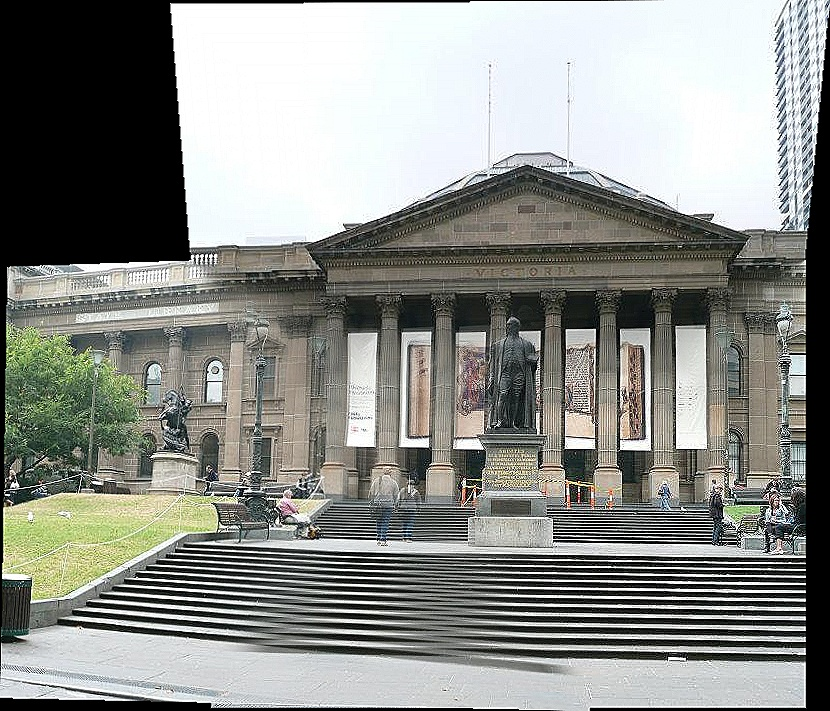
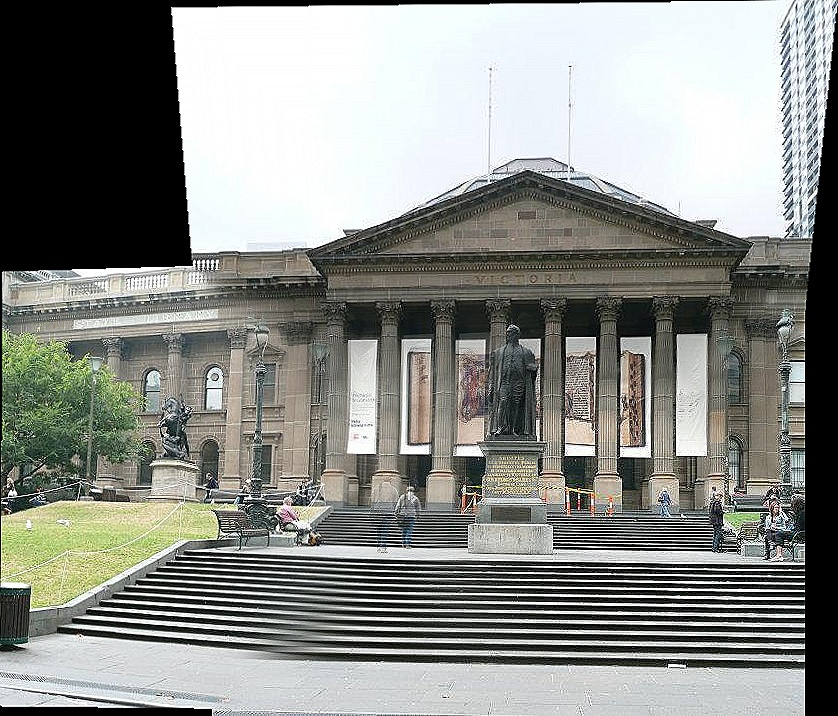
Cylindrical images loaded and Readme updated

diff --git a/main.py b/main.py
@@ -24,6 +24,7 @@ def main():
 
     for i, img in enumerate(images):
         cyl = cylindrical_projection(img)
+        save_image(f"outputs/cylindrical_{i}.jpg", cyl)
         show_image(f"Cylindrical Image {i}", cyl)
 
     print("\nBuilding panorama using pipeline...")

diff --git a/README.md b/README.md
@@ -1,8 +1,8 @@
-# 🖼 Image Stitching using SIFT
+# 🖼 Advanced Image Stitching using SIFT
 
 ![Python](https://img.shields.io/badge/Python-3.x-blue?logo=python)
 ![OpenCV](https://img.shields.io/badge/OpenCV-Computer%20Vision-green?logo=opencv)
-![Status](https://img.shields.io/badge/Status-In%20Progress-yellow)
+![Status](https://img.shields.io/badge/Status-Completed-brightgreen)
 ![License](https://img.shields.io/badge/License-MIT-lightgrey)
 ![Contributions](https://img.shields.io/badge/Contributions-Welcome-brightgreen)
 
@@ -10,20 +10,24 @@
 
 ## 📌 Overview
 
-This project implements a **multi-image panorama stitching system** using concepts from the **SIFT (Scale-Invariant Feature Transform)** paper.
+This project implements a **complete multi-image panorama stitching system** based on concepts from the **SIFT (Scale-Invariant Feature Transform)** paper.
 
-The pipeline detects keypoints, matches them across images, estimates geometric transformations using **RANSAC**, and stitches images into a seamless panorama.
+It detects keypoints, matches features across multiple images, estimates transformations using **RANSAC**, aligns images into a common coordinate space, and produces a **clean, blended panoramic output**.
 
 ---
 
 ## 🚀 Features
 
-* 🔍 SIFT-based feature detection
-* 🔗 Feature matching using KNN + ratio test
-* 📐 Robust homography estimation using RANSAC
-* 🖼 Image warping and stitching
-* 🎨 Basic blending for smoother output
-* 📊 Visualization of keypoints and matches
+* 🔍 SIFT-based feature detection with preprocessing
+* 🔗 Feature matching using KNN + Lowe’s ratio test
+* 📐 Robust homography estimation using RANSAC + refinement
+* 🌍 Multi-image stitching (3+ images supported)
+* 🔄 Global homography chaining (reference frame alignment)
+* 🌐 Cylindrical projection for distortion reduction
+* 🎨 Advanced blending (feather blending / weighted blending)
+* ✂ Automatic black border cropping
+* ✨ Optional sharpening for final output
+* 📊 Visualization of keypoints, matches, and inliers
 
 ---
 
@@ -33,18 +37,26 @@ The pipeline detects keypoints, matches them across images, estimates geometric 
 image_stitching/
 │
 ├── modules/
-│   ├── feature.py        # Feature extraction (SIFT)
-│   ├── matcher.py        # Feature matching
-│   ├── homography.py     # Homography + RANSAC
-│   └── stitcher.py       # Warping + blending
+│ ├── feature.py # Feature extraction (SIFT + preprocessing)
+│ ├── matcher.py # Feature matching (KNN + filtering)
+│ ├── homography.py # Homography + RANSAC
+│ ├── transform.py # Homography chaining & normalization
+│ ├── projection.py # Cylindrical projection
+│ ├── pipeline.py # Full stitching pipeline
+│ ├── postprocess.py # Cropping & sharpening
+│ └── stitch.py # (legacy / optional stitching logic)
 │
 ├── tests/
-│   └── test_homography.py
+│ ├── test_homography.py
+│ └── test_matcher.py
 │
-├── main.py
+├── images/ # Input images
+├── outputs/ # Generated results
+├── main.py # Entry point
 ├── requirements.txt
 ├── .gitignore
 └── README.md
+
 ```
 
 ---
@@ -53,43 +65,42 @@ image_stitching/
 
 ### 1. Clone the repository
 
-```
-git clone <your-repo-link>
-cd image_stitching
+``` 
+git clone https://github.com/Vaishnav-365/Image-Stitching.git
+cd Image-Stitching
+
 ```
 
 ### 2. Create virtual environment
 
 ```
 python -m venv venv
-```
 
+```
 ### 3. Activate environment
 
 ```
-venv\Scripts\activate   # Windows
+venv\Scripts\activate # Windows
+source venv/bin/activate # Linux/Mac
+
 ```
 
 ### 4. Install dependencies
 
 ```
 pip install -r requirements.txt
+
 ```
 
 ---
 
 ## ▶ Running the Project
 
-### Run tests
-
-```
-python -m tests.test_homography
-```
-
 ### Run main pipeline
 
 ```
 python -m main
+
 ```
 
 ---
@@ -97,61 +108,88 @@ python -m main
 ## 🧠 Pipeline
 
 ```
-Images → SIFT → Feature Matching → Ratio Test
-        → RANSAC → Homography → Warping
-        → Blending → Panorama
+Images
+→ Preprocessing (Grayscale + Histogram Equalization)
+→ SIFT Feature Detection
+→ Feature Matching (KNN + Ratio Test)
+→ RANSAC Homography Estimation
+→ Inlier Refinement
+→ Global Homography Alignment
+→ Cylindrical Projection
+→ Image Warping
+→ Blending (Feather / Weighted)
+→ Cropping & Sharpening
+→ Final Panorama
+
 ```
 
 ---
 
 ## 👥 Team Responsibilities
 
-* **Person A** → Feature Extraction (SIFT)
-* **Person B** → Feature Matching
-* **Person C** → Homography & RANSAC
-* **Person D** → Warping & Blending
+* **Person A** → Feature Extraction (SIFT + preprocessing)
+* **Person B** → Feature Matching (robust matching + filtering)
+* **Person C** → Pipeline, Homography, Multi-image alignment, Projection, Blending, Post-processing
+* **Person D** → (Optional) Advanced blending, UI, optimization
 
 ---
 
 ## 📅 Timeline
 
-| Phase     | Work                             |
-| --------- | -------------------------------- |
-| Days 1–4  | Feature detection & matching     |
-| Days 5–8  | Homography & warping             |
-| Days 9–12 | Blending & multi-image stitching |
+| Phase     | Work                                      |
+|----------|-------------------------------------------|
+| Days 1–4  | Feature detection & matching              |
+| Days 5–8  | Homography, validation & multi-image setup|
+| Days 9–10 | Blending improvements & robustness        |
+| Day 11    | Cylindrical projection                   |
+| Day 12    | Cropping, sharpening & final polish       |
 
 ---
 
-## 📸 Expected Output
+## 📸 Output
 
-* Panorama generated from **2–5 overlapping images**
-* Visualization of:
+The system generates:
 
-  * Keypoints
+* 🖼 Seamless panorama from **multiple overlapping images**
+* 📊 Visualizations:
+  * Keypoints detected
   * Feature matches
-  * Inliers after RANSAC
+  * RANSAC inliers
+* 📁 Saved outputs:
+  * Final panorama
+  * Intermediate debug images
+
+---
+
+## ⚠ Known Limitations
+
+* Minor ghosting may occur due to parallax
+* Assumes moderate overlap between images
+* Works best with consistent lighting conditions
 
 ---
 
 ## 📚 References
 
-* David G. Lowe, *Distinctive Image Features from Scale-Invariant Keypoints*, 2004
+* David G. Lowe,  
+  *Distinctive Image Features from Scale-Invariant Keypoints*, 2004
 
 ---
 
 ## 🧠 Future Improvements
 
-* Multi-band blending
-* Cylindrical projection
+* Multi-band blending (reduce ghosting further)
+* Exposure compensation
+* Seam finding algorithms
 * Real-time stitching
-* GPU acceleration
+* GPU acceleration (CUDA/OpenCL)
+* Integration with video streams
 
 ---
 
 ## 🤝 Contributing
 
-Contributions, issues, and feature requests are welcome!
+Contributions, improvements, and suggestions are welcome!
 
 ---
 
